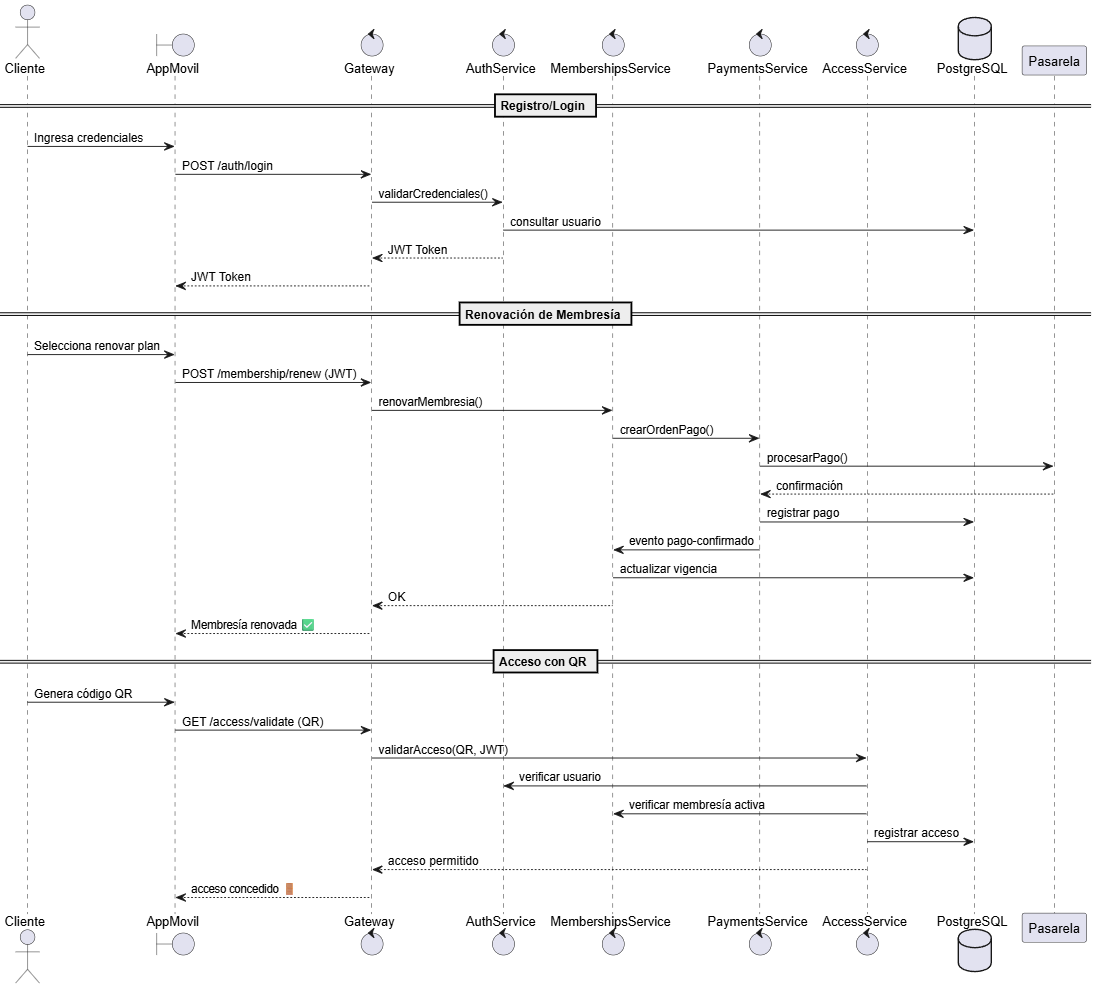
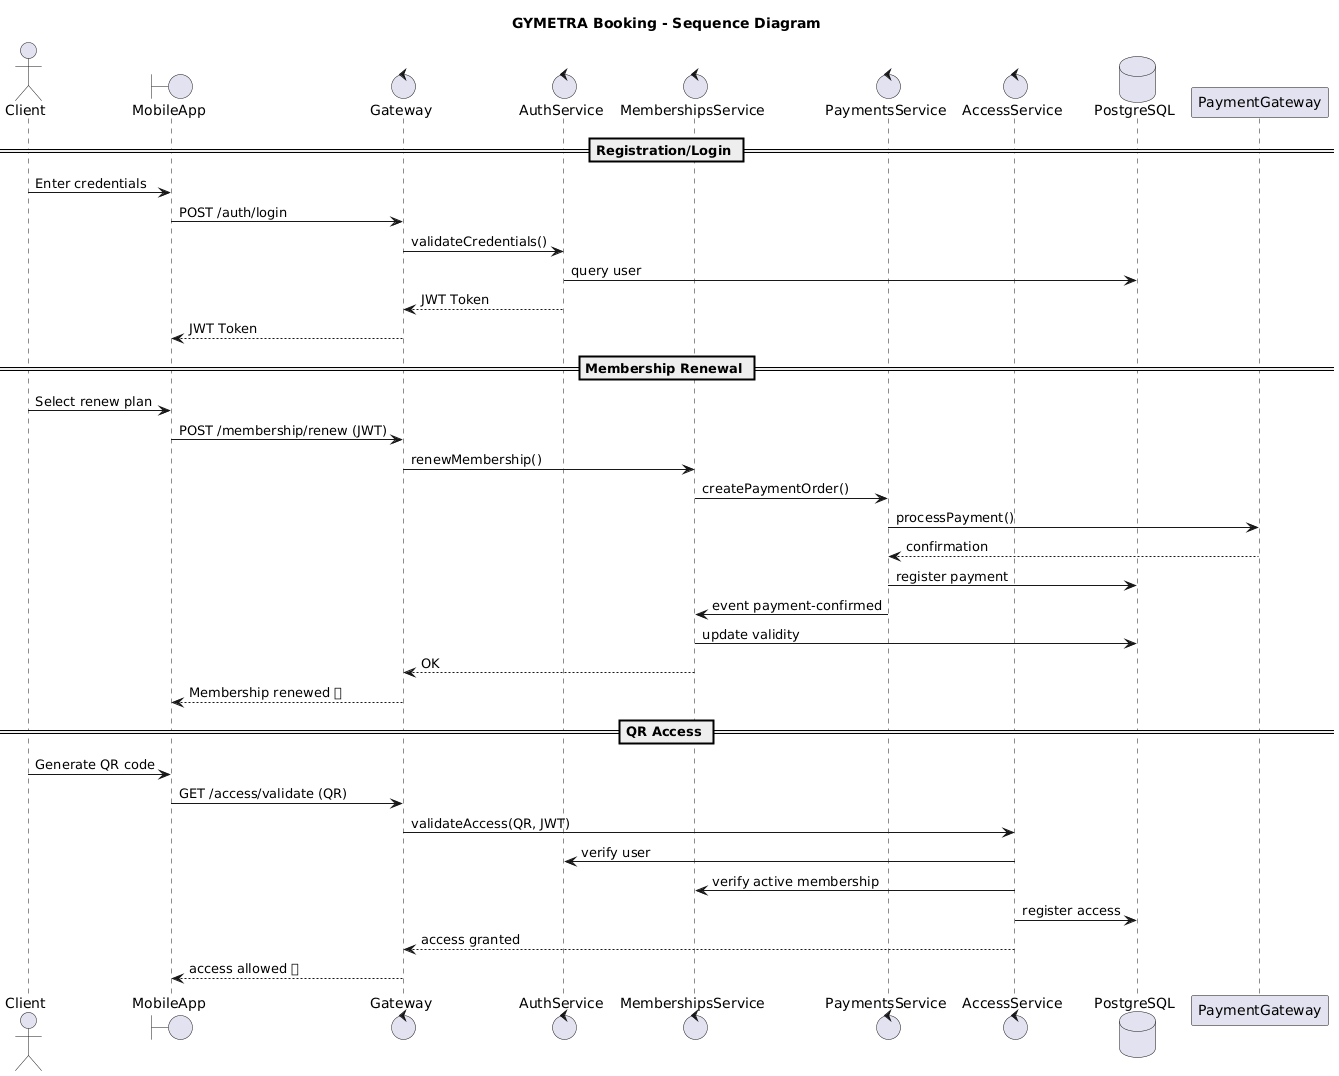
HU1.5 | Changes in PlantUML code of index.html, sequence diagrams and deployment diagrams. From Spanish to English

diff --git a/docs/Presentacion Proyecto/Proyecto GYM/index.html b/docs/Presentacion Proyecto/Proyecto GYM/index.html
@@ -372,8 +372,8 @@ User "1" -- "N" AccessLog
       <pre><code>@startuml
 title GYMETRA Booking – Sequence Diagram
 
-actor Cliente
-boundary AppMovil as App
+actor Client
+boundary MobileApp as App
 control Gateway
 control AuthService
 control MembershipsService
@@ -381,36 +381,36 @@ control PaymentsService
 control AccessService
 database PostgreSQL
 
-== Registro/Login ==
-Cliente -> App : Ingresa credenciales
+== Registration/Login ==
+Client -> App : Enter credentials
 App -> Gateway : POST /auth/login
-Gateway -> AuthService : validarCredenciales()
-AuthService -> PostgreSQL : consultar usuario
+Gateway -> AuthService : validateCredentials()
+AuthService -> PostgreSQL : query user
 AuthService --> Gateway : JWT Token
 Gateway --> App : JWT Token
 
-== Renovación de Membresía ==
-Cliente -> App : Selecciona renovar plan
+== Membership Renewal ==
+Client -> App : Select renew plan
 App -> Gateway : POST /membership/renew (JWT)
-Gateway -> MembershipsService : renovarMembresia()
-MembershipsService -> PaymentsService : crearOrdenPago()
-PaymentsService -> Pasarela : procesarPago()
-Pasarela --> PaymentsService : confirmación
-PaymentsService -> PostgreSQL : registrar pago
-PaymentsService -> MembershipsService : evento pago-confirmado
-MembershipsService -> PostgreSQL : actualizar vigencia
+Gateway -> MembershipsService : renewMembership()
+MembershipsService -> PaymentsService : createPaymentOrder()
+PaymentsService -> PaymentGateway : processPayment()
+PaymentGateway --> PaymentsService : confirmation
+PaymentsService -> PostgreSQL : register payment
+PaymentsService -> MembershipsService : event payment-confirmed
+MembershipsService -> PostgreSQL : update validity
 MembershipsService --> Gateway : OK
-Gateway --> App : Membresía renovada ✅
+Gateway --> App : Membership renewed ✅
 
-== Acceso con QR ==
-Cliente -> App : Genera código QR
+== QR Access ==
+Client -> App : Generate QR code
 App -> Gateway : GET /access/validate (QR)
-Gateway -> AccessService : validarAcceso(QR, JWT)
-AccessService -> AuthService : verificar usuario
-AccessService -> MembershipsService : verificar membresía activa
-AccessService -> PostgreSQL : registrar acceso
-AccessService --> Gateway : acceso permitido
-Gateway --> App : acceso concedido 🚪
+Gateway -> AccessService : validateAccess(QR, JWT)
+AccessService -> AuthService : verify user
+AccessService -> MembershipsService : verify active membership
+AccessService -> PostgreSQL : register access
+AccessService --> Gateway : access granted
+Gateway --> App : access allowed 🚪
 @enduml
 
 </code></pre>
@@ -424,16 +424,16 @@ Gateway --> App : acceso concedido 🚪
       <pre><code>@startuml
 title GYMETRA System – Deployment Diagram
 
-node "Cliente" {
-  node "Dispositivo Móvil" {
-    component "App Móvil (Ionic+Vue)" as AppMovil
+node "Client" {
+  node "Mobile Device" {
+    component "Mobile App (Ionic+Vue)" as MobileApp
   }
-  node "PC/Navegador" {
-    component "App Web (Vue.js)" as AppWeb
+  node "PC/Browser" {
+    component "Web App (Vue.js)" as WebApp
   }
 }
 
-node "Nube Kubernetes Cluster" {
+node "Cloud Kubernetes Cluster" {
   node "API Gateway" {
     component "Spring Cloud Gateway"
   }
@@ -442,53 +442,51 @@ node "Nube Kubernetes Cluster" {
     component "Eureka/Consul"
   }
 
-  node "Microservicios" {
+  node "Microservices" {
     component "AuthService\n(Spring Boot)" as Auth
-    component "UsuariosService\n(Spring Boot)" as Users
-    component "MembershipsService\n(Spring Boot)" as Membresias
-    component "PaymentsService\n(Spring Boot)" as Pagos
-    component "AccessService\n(Spring Boot)" as Accesos
-    component "ReportsService\n(Spring Boot)" as Reportes
+    component "UsersService\n(Spring Boot)" as Users
+    component "MembershipsService\n(Spring Boot)" as Memberships
+    component "PaymentsService\n(Spring Boot)" as Payments
+    component "AccessService\n(Spring Boot)" as Access
+    component "ReportsService\n(Spring Boot)" as Reports
   }
 
-  node "Mensajería" {
+  node "Messaging" {
     component "RabbitMQ/Kafka"
   }
 
-  node "Base de Datos" {
+  node "Database" {
     database "PostgreSQL"
   }
 
-  node "Observabilidad" {
+  node "Observability" {
     component "Prometheus"
     component "Grafana"
     component "ELK/EFK"
   }
 }
 
-AppMovil --> "Spring Cloud Gateway"
-AppWeb --> "Spring Cloud Gateway"
+MobileApp --> "Spring Cloud Gateway"
+WebApp --> "Spring Cloud Gateway"
 "Spring Cloud Gateway" --> Auth
 "Spring Cloud Gateway" --> Users
-"Spring Cloud Gateway" --> Membresias
-"Spring Cloud Gateway" --> Pagos
-"Spring Cloud Gateway" --> Accesos
-"Spring Cloud Gateway" --> Reportes
+"Spring Cloud Gateway" --> Memberships
+"Spring Cloud Gateway" --> Payments
+"Spring Cloud Gateway" --> Access
+"Spring Cloud Gateway" --> Reports
 
 Auth --> "PostgreSQL"
 Users --> "PostgreSQL"
-Membresias --> "PostgreSQL"
-Pagos --> "PostgreSQL"
-Accesos --> "PostgreSQL"
-Reportes --> "PostgreSQL"
+Memberships --> "PostgreSQL"
+Payments --> "PostgreSQL"
+Access --> "PostgreSQL"
+Reports --> "PostgreSQL"
 
-Pagos --> "RabbitMQ/Kafka"
-Accesos --> "RabbitMQ/Kafka"
-Membresias --> "RabbitMQ/Kafka"
+Payments --> "RabbitMQ/Kafka"
+Access --> "RabbitMQ/Kafka"
+Memberships --> "RabbitMQ/Kafka"
 @enduml
 
-
-@enduml
 </code> </pre>
     </div>
 

diff --git a/docs/Presentacion Proyecto/Proyecto GYM/Cambios HU1.5 .md b/docs/Presentacion Proyecto/Proyecto GYM/Cambios HU1.5 .md
@@ -1,0 +1,10 @@
+### HU1.5 – Project Presentation
+The following deliverables were consolidated in `index.html`:
+- Initial project mockups.
+- UML diagrams (use case, class, and package diagrams).
+- User stories board.
+- MoSCoW prioritization.
+- Project phases definition.
+- Effort estimations.
+
+This file centralizes the results of Epic 1 and provides a clear overview of the project progress.
